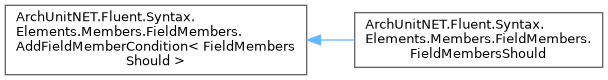
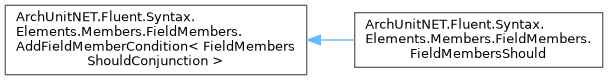
Update documentation for main

Changed region(s): [[0.125, 0.675, 0.375, 0.85]]

diff --git a/latest/classArchUnitNET_1_1Fluent_1_1Syntax_1_1Elements_1_1Members_1_1FieldMembers_1_1FieldMembersShould.html b/latest/classArchUnitNET_1_1Fluent_1_1Syntax_1_1Elements_1_1Members_1_1FieldMembers_1_1FieldMembersShould.html
@@ -102,9 +102,9 @@ Inheritance diagram for ArchUnitNET.Fluent.Syntax.Elements.Members.FieldMembers.
 <div class="dyncontent">
 <div class="center"><img src="classArchUnitNET_1_1Fluent_1_1Syntax_1_1Elements_1_1Members_1_1FieldMembers_1_1FieldMembersShould__inherit__graph.png" border="0" usemap="#aArchUnitNET_8Fluent_8Syntax_8Elements_8Members_8FieldMembers_8FieldMembersShould_inherit__map" alt="Inheritance graph"/></div>
 <map name="aArchUnitNET_8Fluent_8Syntax_8Elements_8Members_8FieldMembers_8FieldMembersShould_inherit__map" id="aArchUnitNET_8Fluent_8Syntax_8Elements_8Members_8FieldMembers_8FieldMembersShould_inherit__map">
-<area shape="rect" title=" " alt="" coords="5,93,253,148"/>
-<area shape="rect" href="classArchUnitNET_1_1Fluent_1_1Syntax_1_1Elements_1_1Members_1_1FieldMembers_1_1AddFieldMemberCondition.html" title=" " alt="" coords="32,5,227,45"/>
-<area shape="poly" title=" " alt="" coords="132,59,132,93,127,93,127,59"/>
+<area shape="rect" title=" " alt="" coords="14,93,262,148"/>
+<area shape="rect" href="classArchUnitNET_1_1Fluent_1_1Syntax_1_1Elements_1_1Members_1_1FieldMembers_1_1AddFieldMemberCondition.html" title=" " alt="" coords="5,5,271,45"/>
+<area shape="poly" title=" " alt="" coords="141,59,141,93,135,93,135,59"/>
 </map>
 <center><span class="legend">[<a target="top" href="graph_legend.html">legend</a>]</span></center></div>
 <div class="dynheader">
@@ -112,9 +112,9 @@ Collaboration diagram for ArchUnitNET.Fluent.Syntax.Elements.Members.FieldMember
 <div class="dyncontent">
 <div class="center"><img src="classArchUnitNET_1_1Fluent_1_1Syntax_1_1Elements_1_1Members_1_1FieldMembers_1_1FieldMembersShould__coll__graph.png" border="0" usemap="#aArchUnitNET_8Fluent_8Syntax_8Elements_8Members_8FieldMembers_8FieldMembersShould_coll__map" alt="Collaboration graph"/></div>
 <map name="aArchUnitNET_8Fluent_8Syntax_8Elements_8Members_8FieldMembers_8FieldMembersShould_coll__map" id="aArchUnitNET_8Fluent_8Syntax_8Elements_8Members_8FieldMembers_8FieldMembersShould_coll__map">
-<area shape="rect" title=" " alt="" coords="5,93,253,148"/>
-<area shape="rect" href="classArchUnitNET_1_1Fluent_1_1Syntax_1_1Elements_1_1Members_1_1FieldMembers_1_1AddFieldMemberCondition.html" title=" " alt="" coords="32,5,227,45"/>
-<area shape="poly" title=" " alt="" coords="132,59,132,93,127,93,127,59"/>
+<area shape="rect" title=" " alt="" coords="14,93,262,148"/>
+<area shape="rect" href="classArchUnitNET_1_1Fluent_1_1Syntax_1_1Elements_1_1Members_1_1FieldMembers_1_1AddFieldMemberCondition.html" title=" " alt="" coords="5,5,271,45"/>
+<area shape="poly" title=" " alt="" coords="141,59,141,93,135,93,135,59"/>
 </map>
 <center><span class="legend">[<a target="top" href="graph_legend.html">legend</a>]</span></center></div>
 <table class="memberdecls">
@@ -126,9 +126,9 @@ Public Member Functions</h2></td></tr>
 </table><table class="memberdecls">
 <tr class="heading"><td colspan="2"><h2 class="groupheader"><a id="pro-methods" name="pro-methods"></a>
 Protected Member Functions</h2></td></tr>
-<tr class="memitem:a1788c5fafbf8f67d19980185b722cb56" id="r_a1788c5fafbf8f67d19980185b722cb56"><td class="memItemLeft" align="right" valign="top"><a id="a1788c5fafbf8f67d19980185b722cb56" name="a1788c5fafbf8f67d19980185b722cb56"></a>
-override <a class="el" href="classArchUnitNET_1_1Fluent_1_1Syntax_1_1Elements_1_1Members_1_1FieldMembers_1_1FieldMembersShould.html">FieldMembersShould</a>&#160;</td><td class="memItemRight" valign="bottom"><b>CreateNextElement</b> (<a class="el" href="interfaceArchUnitNET_1_1Fluent_1_1Conditions_1_1IOrderedCondition.html">IOrderedCondition</a>&lt; <a class="el" href="classArchUnitNET_1_1Domain_1_1FieldMember.html">FieldMember</a> &gt; condition)</td></tr>
-<tr class="separator:a1788c5fafbf8f67d19980185b722cb56"><td class="memSeparator" colspan="2">&#160;</td></tr>
+<tr class="memitem:a48d3fbd7a59dd1051116f2544669ee87" id="r_a48d3fbd7a59dd1051116f2544669ee87"><td class="memItemLeft" align="right" valign="top"><a id="a48d3fbd7a59dd1051116f2544669ee87" name="a48d3fbd7a59dd1051116f2544669ee87"></a>
+override <a class="el" href="classArchUnitNET_1_1Fluent_1_1Syntax_1_1Elements_1_1Members_1_1FieldMembers_1_1FieldMembersShouldConjunction.html">FieldMembersShouldConjunction</a>&#160;</td><td class="memItemRight" valign="bottom"><b>CreateNextElement</b> (<a class="el" href="interfaceArchUnitNET_1_1Fluent_1_1Conditions_1_1IOrderedCondition.html">IOrderedCondition</a>&lt; <a class="el" href="classArchUnitNET_1_1Domain_1_1FieldMember.html">FieldMember</a> &gt; condition)</td></tr>
+<tr class="separator:a48d3fbd7a59dd1051116f2544669ee87"><td class="memSeparator" colspan="2">&#160;</td></tr>
 </table>
 <hr/>The documentation for this class was generated from the following file:<ul>
 <li>/home/runner/work/ArchUnitNET/ArchUnitNET/current/ArchUnitNET/Fluent/Syntax/Elements/Members/FieldMembers/<b>FieldMembersShould.cs</b></li>

diff --git a/latest/hierarchy.html b/latest/hierarchy.html
@@ -109,7 +109,7 @@ This inheritance list is sorted roughly, but not completely, alphabetically:</di
 <tr id="row_4_0_" class="odd" style="display:none;"><td class="entry"><span style="width:32px;display:inline-block;">&#160;</span><span class="icona"><span class="icon">C</span></span><a class="el" href="classArchUnitNET_1_1Fluent_1_1Syntax_1_1Elements_1_1Types_1_1Classes_1_1GivenClassesThat.html" target="_self">ArchUnitNET.Fluent.Syntax.Elements.Types.Classes.GivenClassesThat</a></td><td class="desc"></td></tr>
 <tr id="row_5_" class="odd"><td class="entry"><span style="width:0px;display:inline-block;">&#160;</span><span id="arr_5_" class="arrow" onclick="toggleFolder('5_')">&#9658;</span><span class="icona"><span class="icon">C</span></span><a class="el" href="classArchUnitNET_1_1Fluent_1_1Syntax_1_1Elements_1_1Types_1_1Classes_1_1AddClassPredicate.html" target="_self">ArchUnitNET.Fluent.Syntax.Elements.Types.Classes.AddClassPredicate&lt; TNextElement, TRuleType &gt;</a></td><td class="desc"></td></tr>
 <tr id="row_5_0_" class="even" style="display:none;"><td class="entry"><span style="width:32px;display:inline-block;">&#160;</span><span class="icona"><span class="icon">C</span></span><a class="el" href="classArchUnitNET_1_1Fluent_1_1Syntax_1_1Elements_1_1Types_1_1Classes_1_1ShouldRelateToClassesThat.html" target="_self">ArchUnitNET.Fluent.Syntax.Elements.Types.Classes.ShouldRelateToClassesThat&lt; TNextElement, TRuleType &gt;</a></td><td class="desc"></td></tr>
-<tr id="row_6_" class="even"><td class="entry"><span style="width:0px;display:inline-block;">&#160;</span><span id="arr_6_" class="arrow" onclick="toggleFolder('6_')">&#9658;</span><span class="icona"><span class="icon">C</span></span><a class="el" href="classArchUnitNET_1_1Fluent_1_1Syntax_1_1Elements_1_1Members_1_1FieldMembers_1_1AddFieldMemberCondition.html" target="_self">ArchUnitNET.Fluent.Syntax.Elements.Members.FieldMembers.AddFieldMemberCondition&lt; FieldMembersShould &gt;</a></td><td class="desc"></td></tr>
+<tr id="row_6_" class="even"><td class="entry"><span style="width:0px;display:inline-block;">&#160;</span><span id="arr_6_" class="arrow" onclick="toggleFolder('6_')">&#9658;</span><span class="icona"><span class="icon">C</span></span><a class="el" href="classArchUnitNET_1_1Fluent_1_1Syntax_1_1Elements_1_1Members_1_1FieldMembers_1_1AddFieldMemberCondition.html" target="_self">ArchUnitNET.Fluent.Syntax.Elements.Members.FieldMembers.AddFieldMemberCondition&lt; FieldMembersShouldConjunction &gt;</a></td><td class="desc"></td></tr>
 <tr id="row_6_0_" class="odd" style="display:none;"><td class="entry"><span style="width:32px;display:inline-block;">&#160;</span><span class="icona"><span class="icon">C</span></span><a class="el" href="classArchUnitNET_1_1Fluent_1_1Syntax_1_1Elements_1_1Members_1_1FieldMembers_1_1FieldMembersShould.html" target="_self">ArchUnitNET.Fluent.Syntax.Elements.Members.FieldMembers.FieldMembersShould</a></td><td class="desc"></td></tr>
 <tr id="row_7_" class="odd"><td class="entry"><span style="width:0px;display:inline-block;">&#160;</span><span id="arr_7_" class="arrow" onclick="toggleFolder('7_')">&#9658;</span><span class="icona"><span class="icon">C</span></span><a class="el" href="classArchUnitNET_1_1Fluent_1_1Syntax_1_1Elements_1_1Members_1_1FieldMembers_1_1AddFieldMemberPredicate.html" target="_self">ArchUnitNET.Fluent.Syntax.Elements.Members.FieldMembers.AddFieldMemberPredicate&lt; GivenFieldMembersConjunction, FieldMember &gt;</a></td><td class="desc"></td></tr>
 <tr id="row_7_0_" class="even" style="display:none;"><td class="entry"><span style="width:32px;display:inline-block;">&#160;</span><span class="icona"><span class="icon">C</span></span><a class="el" href="classArchUnitNET_1_1Fluent_1_1Syntax_1_1Elements_1_1Members_1_1FieldMembers_1_1GivenFieldMembersThat.html" target="_self">ArchUnitNET.Fluent.Syntax.Elements.Members.FieldMembers.GivenFieldMembersThat</a></td><td class="desc"></td></tr>

diff --git a/latest/search/all_0.js b/latest/search/all_0.js
@@ -12,7 +12,7 @@ var searchData=
   ['addclasspredicate_3c_20givenclassesconjunction_2c_20class_20_3e_9',['AddClassPredicate&lt; GivenClassesConjunction, Class &gt;',['../classArchUnitNET_1_1Fluent_1_1Syntax_1_1Elements_1_1Types_1_1Classes_1_1AddClassPredicate.html',1,'ArchUnitNET::Fluent::Syntax::Elements::Types::Classes']]],
   ['addclasspredicate_3c_20tnextelement_2c_20truletype_20_3e_10',['AddClassPredicate&lt; TNextElement, TRuleType &gt;',['../classArchUnitNET_1_1Fluent_1_1Syntax_1_1Elements_1_1Types_1_1Classes_1_1AddClassPredicate.html',1,'ArchUnitNET::Fluent::Syntax::Elements::Types::Classes']]],
   ['addfieldmembercondition_11',['AddFieldMemberCondition',['../classArchUnitNET_1_1Fluent_1_1Syntax_1_1Elements_1_1Members_1_1FieldMembers_1_1AddFieldMemberCondition.html',1,'ArchUnitNET::Fluent::Syntax::Elements::Members::FieldMembers']]],
-  ['addfieldmembercondition_3c_20fieldmembersshould_20_3e_12',['AddFieldMemberCondition&lt; FieldMembersShould &gt;',['../classArchUnitNET_1_1Fluent_1_1Syntax_1_1Elements_1_1Members_1_1FieldMembers_1_1AddFieldMemberCondition.html',1,'ArchUnitNET::Fluent::Syntax::Elements::Members::FieldMembers']]],
+  ['addfieldmembercondition_3c_20fieldmembersshouldconjunction_20_3e_12',['AddFieldMemberCondition&lt; FieldMembersShouldConjunction &gt;',['../classArchUnitNET_1_1Fluent_1_1Syntax_1_1Elements_1_1Members_1_1FieldMembers_1_1AddFieldMemberCondition.html',1,'ArchUnitNET::Fluent::Syntax::Elements::Members::FieldMembers']]],
   ['addfieldmemberpredicate_13',['AddFieldMemberPredicate',['../classArchUnitNET_1_1Fluent_1_1Syntax_1_1Elements_1_1Members_1_1FieldMembers_1_1AddFieldMemberPredicate.html',1,'ArchUnitNET::Fluent::Syntax::Elements::Members::FieldMembers']]],
   ['addfieldmemberpredicate_3c_20givenfieldmembersconjunction_2c_20fieldmember_20_3e_14',['AddFieldMemberPredicate&lt; GivenFieldMembersConjunction, FieldMember &gt;',['../classArchUnitNET_1_1Fluent_1_1Syntax_1_1Elements_1_1Members_1_1FieldMembers_1_1AddFieldMemberPredicate.html',1,'ArchUnitNET::Fluent::Syntax::Elements::Members::FieldMembers']]],
   ['addfieldmemberpredicate_3c_20truletypeshouldconjunction_2c_20truletype_20_3e_15',['AddFieldMemberPredicate&lt; TRuleTypeShouldConjunction, TRuleType &gt;',['../classArchUnitNET_1_1Fluent_1_1Syntax_1_1Elements_1_1Members_1_1FieldMembers_1_1AddFieldMemberPredicate.html',1,'ArchUnitNET::Fluent::Syntax::Elements::Members::FieldMembers']]],

diff --git a/latest/search/classes_0.js b/latest/search/classes_0.js
@@ -12,7 +12,7 @@ var searchData=
   ['addclasspredicate_3c_20givenclassesconjunction_2c_20class_20_3e_9',['AddClassPredicate&lt; GivenClassesConjunction, Class &gt;',['../classArchUnitNET_1_1Fluent_1_1Syntax_1_1Elements_1_1Types_1_1Classes_1_1AddClassPredicate.html',1,'ArchUnitNET::Fluent::Syntax::Elements::Types::Classes']]],
   ['addclasspredicate_3c_20tnextelement_2c_20truletype_20_3e_10',['AddClassPredicate&lt; TNextElement, TRuleType &gt;',['../classArchUnitNET_1_1Fluent_1_1Syntax_1_1Elements_1_1Types_1_1Classes_1_1AddClassPredicate.html',1,'ArchUnitNET::Fluent::Syntax::Elements::Types::Classes']]],
   ['addfieldmembercondition_11',['AddFieldMemberCondition',['../classArchUnitNET_1_1Fluent_1_1Syntax_1_1Elements_1_1Members_1_1FieldMembers_1_1AddFieldMemberCondition.html',1,'ArchUnitNET::Fluent::Syntax::Elements::Members::FieldMembers']]],
-  ['addfieldmembercondition_3c_20fieldmembersshould_20_3e_12',['AddFieldMemberCondition&lt; FieldMembersShould &gt;',['../classArchUnitNET_1_1Fluent_1_1Syntax_1_1Elements_1_1Members_1_1FieldMembers_1_1AddFieldMemberCondition.html',1,'ArchUnitNET::Fluent::Syntax::Elements::Members::FieldMembers']]],
+  ['addfieldmembercondition_3c_20fieldmembersshouldconjunction_20_3e_12',['AddFieldMemberCondition&lt; FieldMembersShouldConjunction &gt;',['../classArchUnitNET_1_1Fluent_1_1Syntax_1_1Elements_1_1Members_1_1FieldMembers_1_1AddFieldMemberCondition.html',1,'ArchUnitNET::Fluent::Syntax::Elements::Members::FieldMembers']]],
   ['addfieldmemberpredicate_13',['AddFieldMemberPredicate',['../classArchUnitNET_1_1Fluent_1_1Syntax_1_1Elements_1_1Members_1_1FieldMembers_1_1AddFieldMemberPredicate.html',1,'ArchUnitNET::Fluent::Syntax::Elements::Members::FieldMembers']]],
   ['addfieldmemberpredicate_3c_20givenfieldmembersconjunction_2c_20fieldmember_20_3e_14',['AddFieldMemberPredicate&lt; GivenFieldMembersConjunction, FieldMember &gt;',['../classArchUnitNET_1_1Fluent_1_1Syntax_1_1Elements_1_1Members_1_1FieldMembers_1_1AddFieldMemberPredicate.html',1,'ArchUnitNET::Fluent::Syntax::Elements::Members::FieldMembers']]],
   ['addfieldmemberpredicate_3c_20truletypeshouldconjunction_2c_20truletype_20_3e_15',['AddFieldMemberPredicate&lt; TRuleTypeShouldConjunction, TRuleType &gt;',['../classArchUnitNET_1_1Fluent_1_1Syntax_1_1Elements_1_1Members_1_1FieldMembers_1_1AddFieldMemberPredicate.html',1,'ArchUnitNET::Fluent::Syntax::Elements::Members::FieldMembers']]],

diff --git a/latest/inherits.html b/latest/inherits.html
@@ -736,8 +736,8 @@ $(document).ready(function(){initNavTree('hierarchy.html',''); initResizable(); 
 <area shape="poly" title=" " alt="" coords="311,37,345,37,345,43,311,43"/>
 </map>
 </td></tr>
-<tr><td><img src="inherit_graph_63.png" border="0" usemap="#aArchUnitNET_8Fluent_8Syntax_8Elements_8Members_8FieldMembers_8AddFieldMemberCondition_3_01FieldMembersShould_01_4" alt=""/>
-<map name="aArchUnitNET_8Fluent_8Syntax_8Elements_8Members_8FieldMembers_8AddFieldMemberCondition_3_01FieldMembersShould_01_4" id="aArchUnitNET_8Fluent_8Syntax_8Elements_8Members_8FieldMembers_8AddFieldMemberCondition_3_01FieldMembersShould_01_4">
+<tr><td><img src="inherit_graph_63.png" border="0" usemap="#aArchUnitNET_8Fluent_8Syntax_8Elements_8Members_8FieldMembers_8AddFieldMemberCondition_3_01FieldMembersShouldConjunction_01_4" alt=""/>
+<map name="aArchUnitNET_8Fluent_8Syntax_8Elements_8Members_8FieldMembers_8AddFieldMemberCondition_3_01FieldMembersShouldConjunction_01_4" id="aArchUnitNET_8Fluent_8Syntax_8Elements_8Members_8FieldMembers_8AddFieldMemberCondition_3_01FieldMembersShouldConjunction_01_4">
 <area shape="rect" href="classArchUnitNET_1_1Fluent_1_1Syntax_1_1Elements_1_1Members_1_1FieldMembers_1_1AddFieldMemberCondition.html" title=" " alt="" coords="5,5,307,75"/>
 <area shape="rect" href="classArchUnitNET_1_1Fluent_1_1Syntax_1_1Elements_1_1Members_1_1FieldMembers_1_1FieldMembersShould.html" title=" " alt="" coords="355,13,603,67"/>
 <area shape="poly" title=" " alt="" coords="320,37,355,37,355,43,320,43"/>

diff --git a/latest/hierarchy.js b/latest/hierarchy.js
@@ -18,7 +18,7 @@ var hierarchy =
     [ "ArchUnitNET.Fluent.Syntax.Elements.Types.Classes.AddClassPredicate< TNextElement, TRuleType >", "classArchUnitNET_1_1Fluent_1_1Syntax_1_1Elements_1_1Types_1_1Classes_1_1AddClassPredicate.html", [
       [ "ArchUnitNET.Fluent.Syntax.Elements.Types.Classes.ShouldRelateToClassesThat< TNextElement, TRuleType >", "classArchUnitNET_1_1Fluent_1_1Syntax_1_1Elements_1_1Types_1_1Classes_1_1ShouldRelateToClassesThat.html", null ]
     ] ],
-    [ "ArchUnitNET.Fluent.Syntax.Elements.Members.FieldMembers.AddFieldMemberCondition< FieldMembersShould >", "classArchUnitNET_1_1Fluent_1_1Syntax_1_1Elements_1_1Members_1_1FieldMembers_1_1AddFieldMemberCondition.html", [
+    [ "ArchUnitNET.Fluent.Syntax.Elements.Members.FieldMembers.AddFieldMemberCondition< FieldMembersShouldConjunction >", "classArchUnitNET_1_1Fluent_1_1Syntax_1_1Elements_1_1Members_1_1FieldMembers_1_1AddFieldMemberCondition.html", [
       [ "ArchUnitNET.Fluent.Syntax.Elements.Members.FieldMembers.FieldMembersShould", "classArchUnitNET_1_1Fluent_1_1Syntax_1_1Elements_1_1Members_1_1FieldMembers_1_1FieldMembersShould.html", null ]
     ] ],
     [ "ArchUnitNET.Fluent.Syntax.Elements.Members.FieldMembers.AddFieldMemberPredicate< GivenFieldMembersConjunction, FieldMember >", "classArchUnitNET_1_1Fluent_1_1Syntax_1_1Elements_1_1Members_1_1FieldMembers_1_1AddFieldMemberPredicate.html", [
